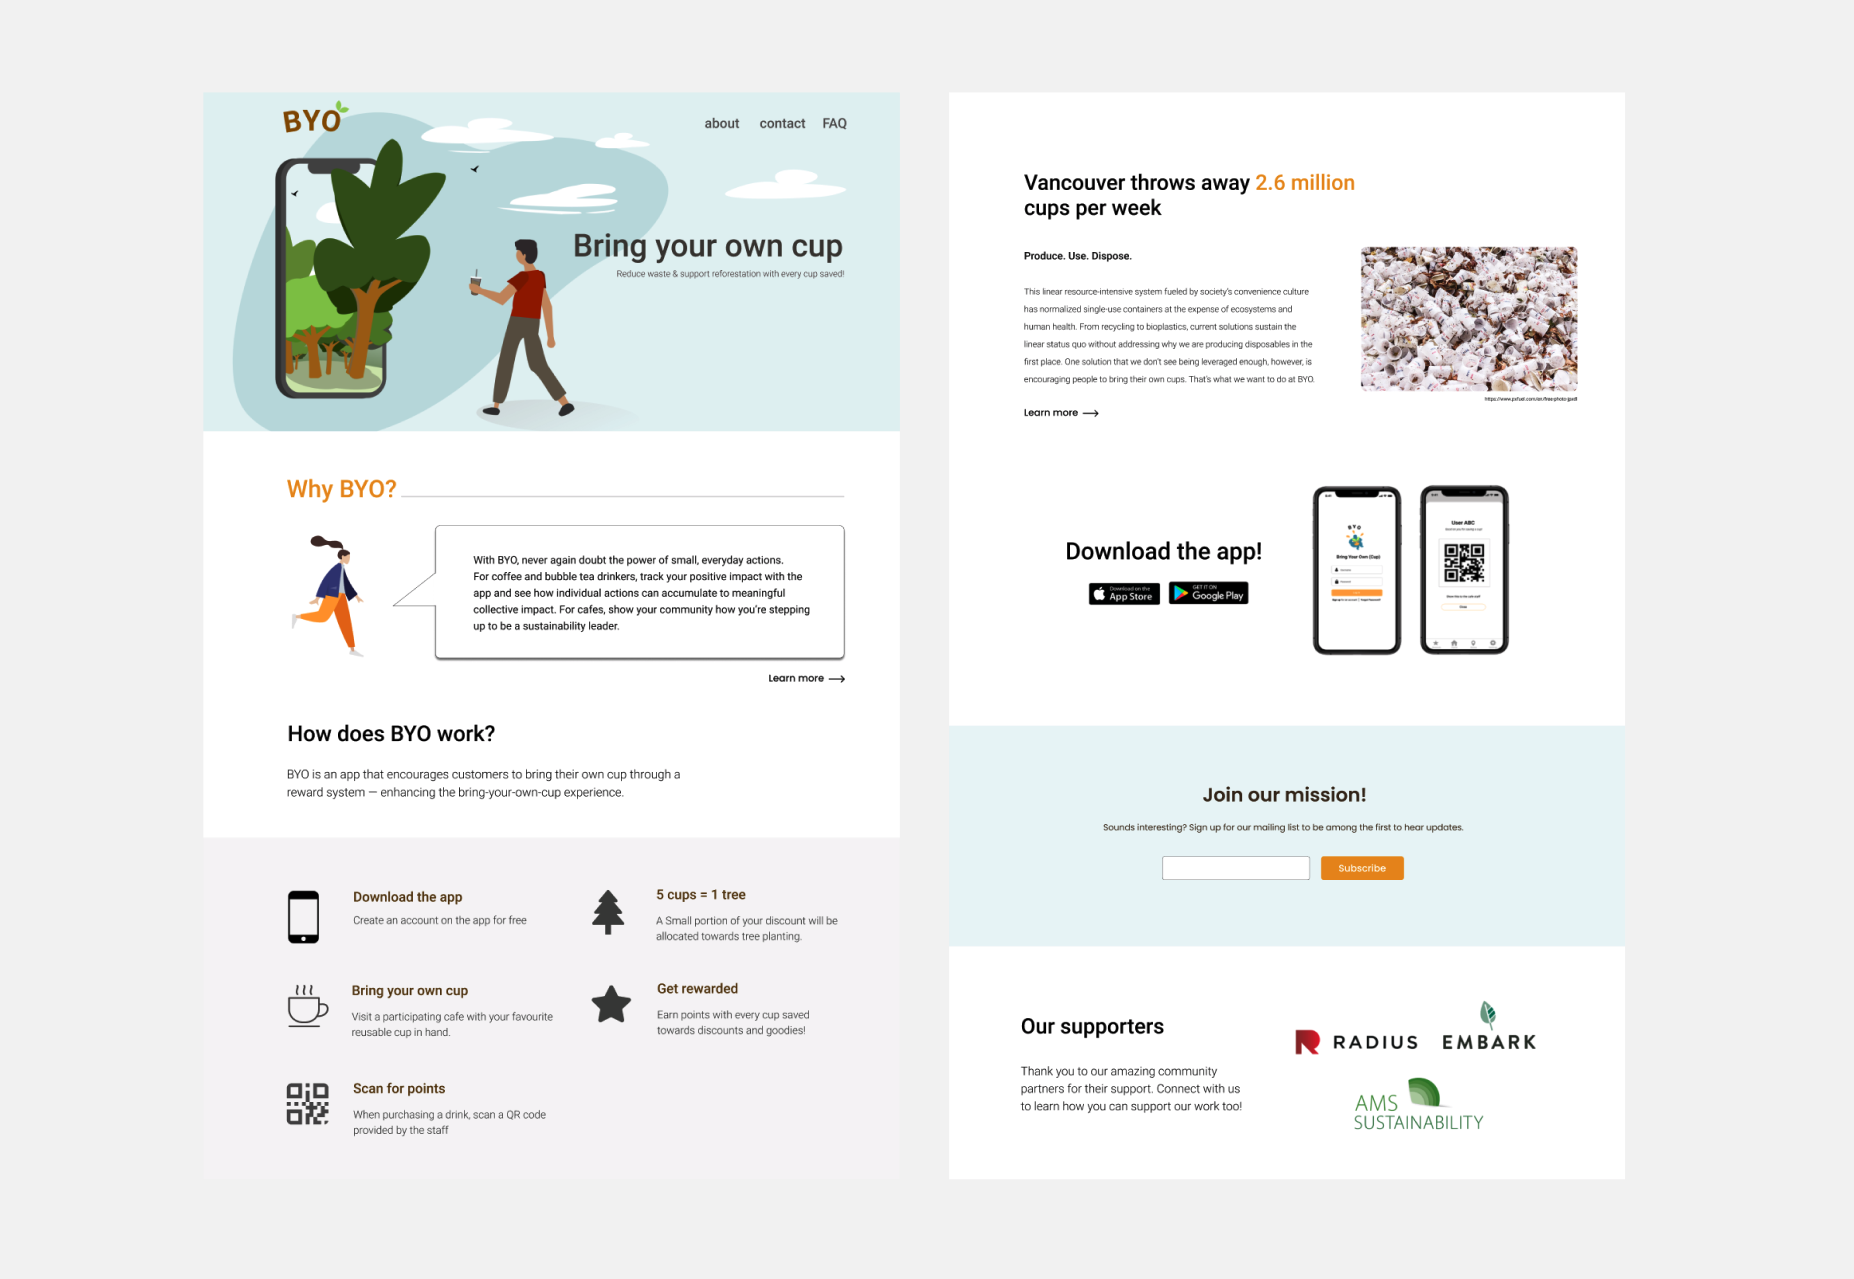
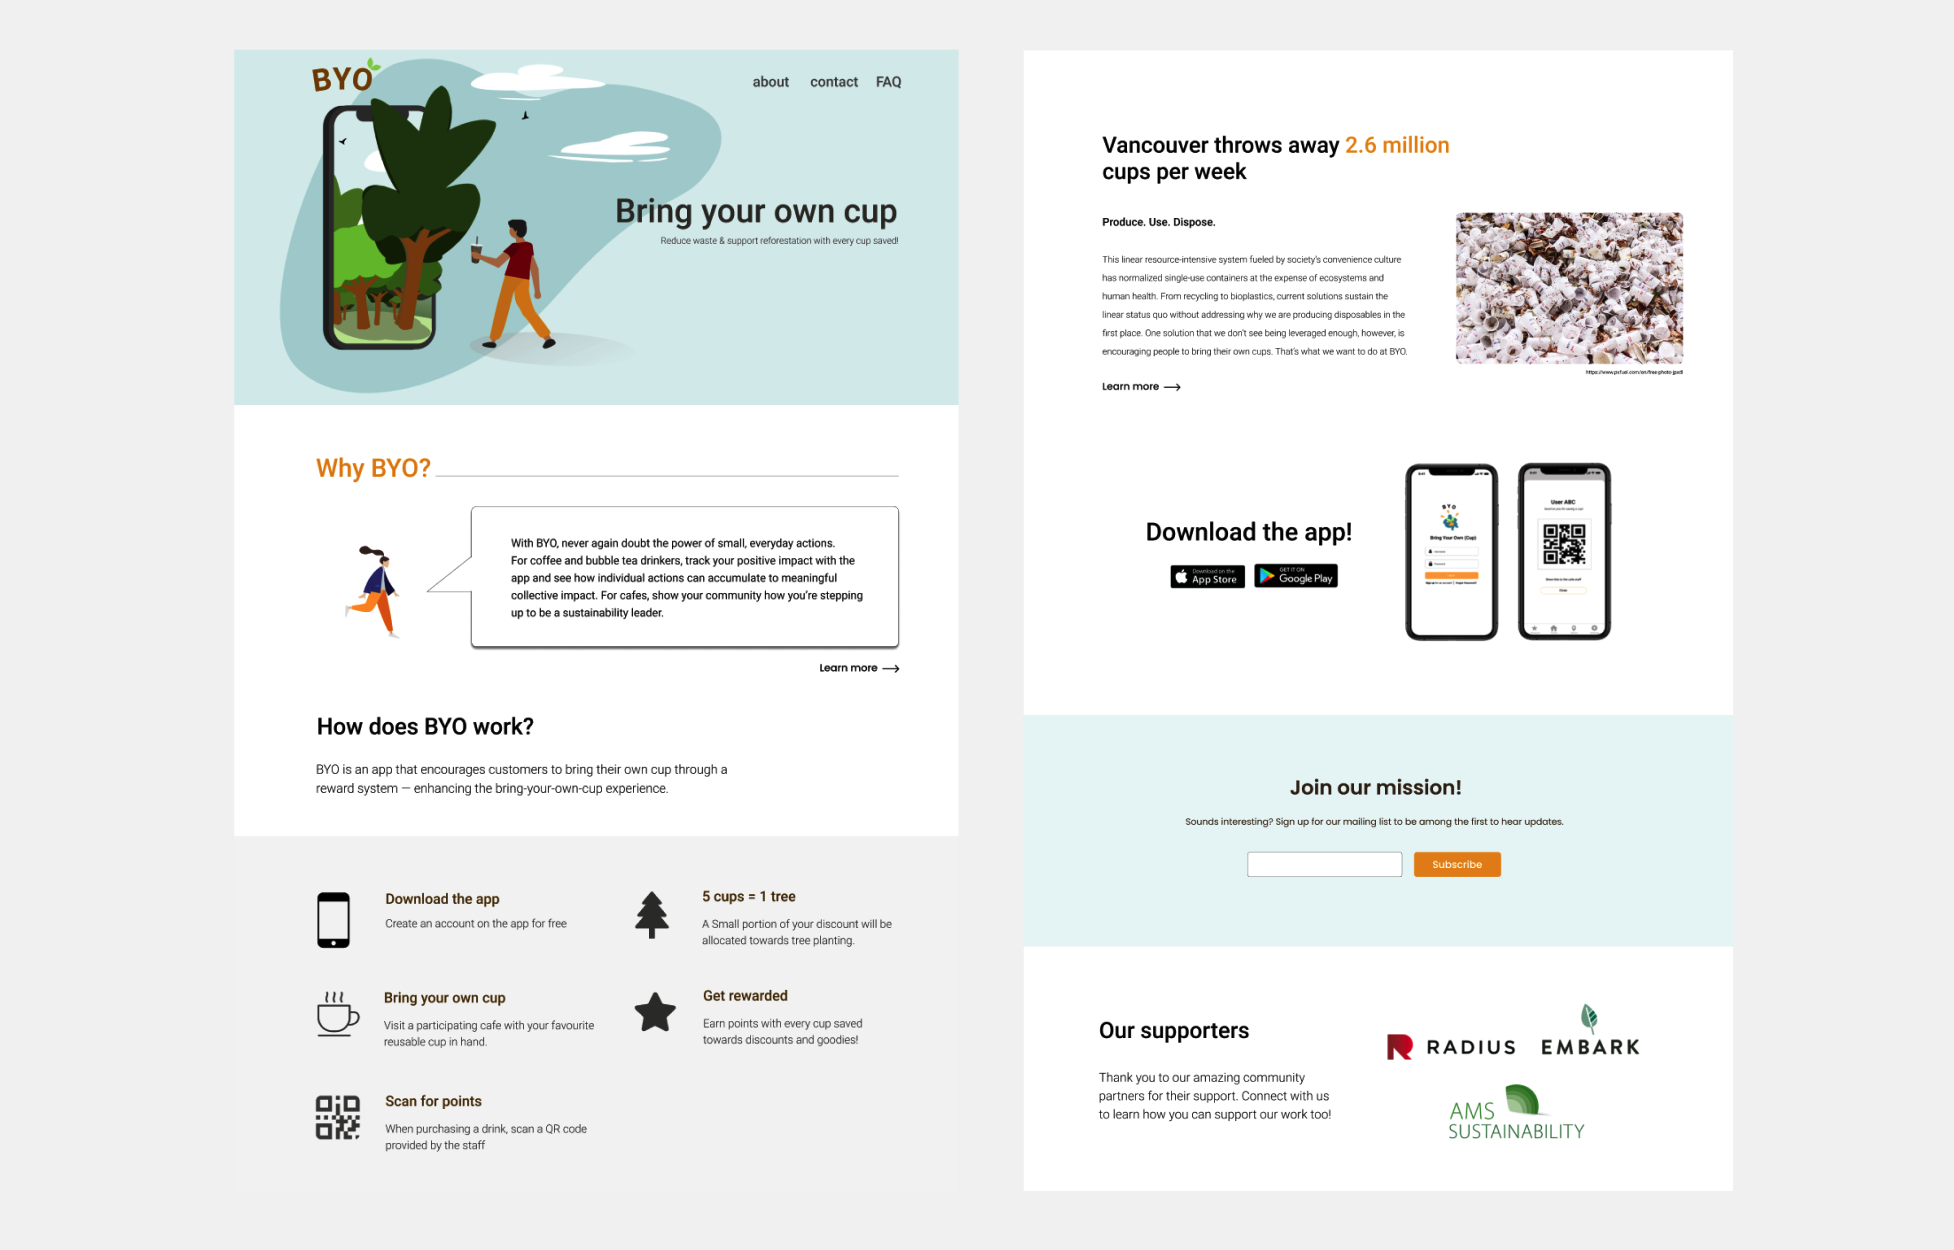
efse

diff --git a/project2.html b/project2.html
@@ -91,9 +91,11 @@
          <figcaption> Old and oudated BYO website </figcaption>
          </figure>
 
+         <p> The old BYO website didn't feel inviting and displayed minimal information about the company itself and their mission and primarily focused on conveying the problem space. We decided to move the problem space element down in the home page hierarchy of content and elaborate more on answering the questions "who" and "why" for BYO so that users can get a better idea of what BYO is and how it works immediately upon landing on the home page. </p>
+
          <h3> BYO website re-imagined </h3>
 
-         <p> The website design was inspired by the pattern library designed for the BYO app and the app dashboard that is currently in the process of being built. The founders of BYO emphasized wanting a more "fun" and "lively" look for the website which I tried to amplify using lighter colours and fun graphic accents. </p>
+         <p> The website design was inspired by the pattern library designed for the BYO app and the app dashboard that is currently in the process of being built. The founders of BYO emphasized wanting a more "fun" "inviting" amd lively" look for the website which I tried to amplify using lighter colours and fun graphic accents. </p>
 
          <figure>
          <img src = "img/newbyoo.jpg" alt= "new byo website" width = "800">
